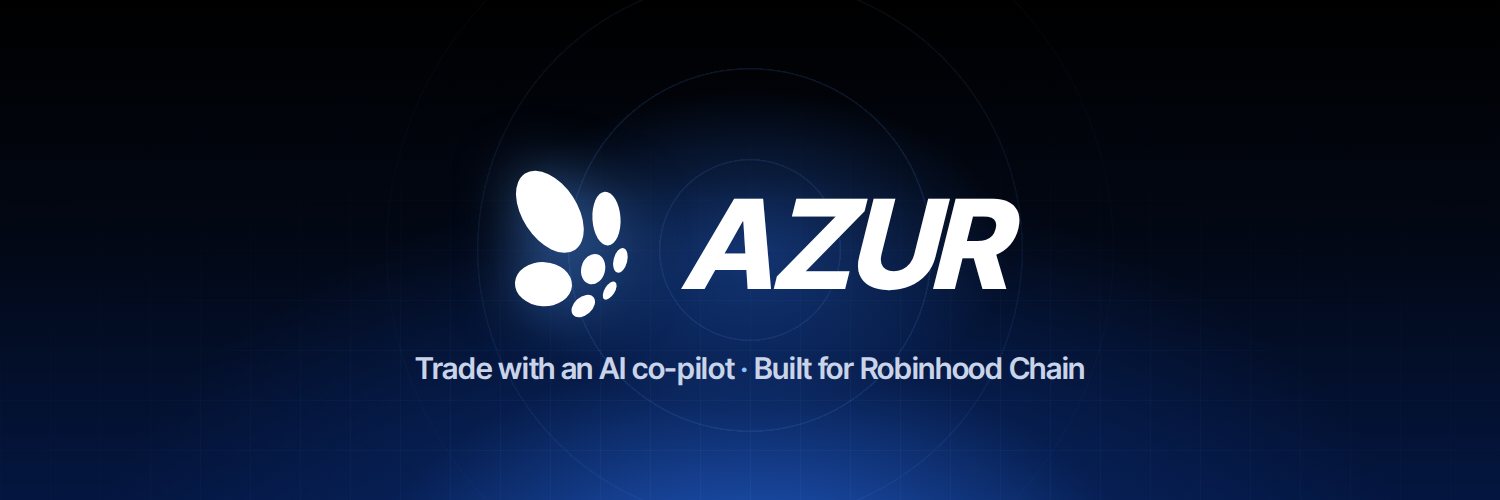
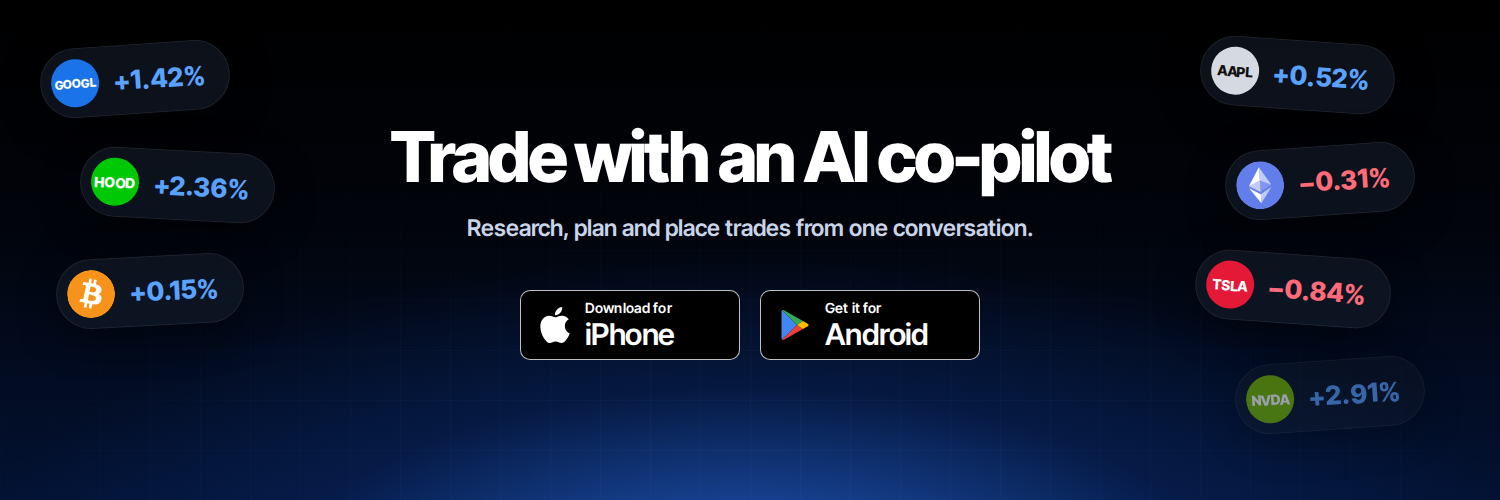
Rework the X header around the store buttons and price pills; title-case tab titles
Claude-Session: https://claude.ai/code/session_0118ZMJesLhFfZMnfQgqh8dT

diff --git a/azur-site/index.html b/azur-site/index.html
@@ -3,7 +3,7 @@
 <head>
   <meta charset="utf-8">
   <meta name="viewport" content="width=device-width, initial-scale=1">
-  <title>AZUR</title>
+  <title>Azur</title>
   <meta name="description" content="AZUR is a mobile app for trading with AI. Research ideas, build a plan and place trades from one conversation.">
   <meta name="theme-color" content="#050a16">
   <meta property="og:type" content="website">

diff --git a/azur-site/docs.html b/azur-site/docs.html
@@ -3,7 +3,7 @@
 <head>
   <meta charset="utf-8">
   <meta name="viewport" content="width=device-width, initial-scale=1">
-  <title>AZUR Docs</title>
+  <title>Azur Docs</title>
   <meta name="description" content="Set up AZUR, fund your account, talk to your agent and place your first trade.">
   <meta property="og:type" content="website">
   <meta property="og:site_name" content="AZUR">

diff --git a/azur-site/privacy.html b/azur-site/privacy.html
@@ -3,7 +3,7 @@
 <head>
   <meta charset="utf-8">
   <meta name="viewport" content="width=device-width, initial-scale=1">
-  <title>AZUR Privacy</title>
+  <title>Azur Privacy</title>
   <meta name="description" content="How AZUR collects, uses and protects your data.">
   <meta property="og:type" content="website">
   <meta property="og:site_name" content="AZUR">

diff --git a/azur-site/terms.html b/azur-site/terms.html
@@ -3,7 +3,7 @@
 <head>
   <meta charset="utf-8">
   <meta name="viewport" content="width=device-width, initial-scale=1">
-  <title>AZUR Terms</title>
+  <title>Azur Terms</title>
   <meta name="description" content="Terms of use for the AZUR app and website.">
   <meta property="og:type" content="website">
   <meta property="og:site_name" content="AZUR">
